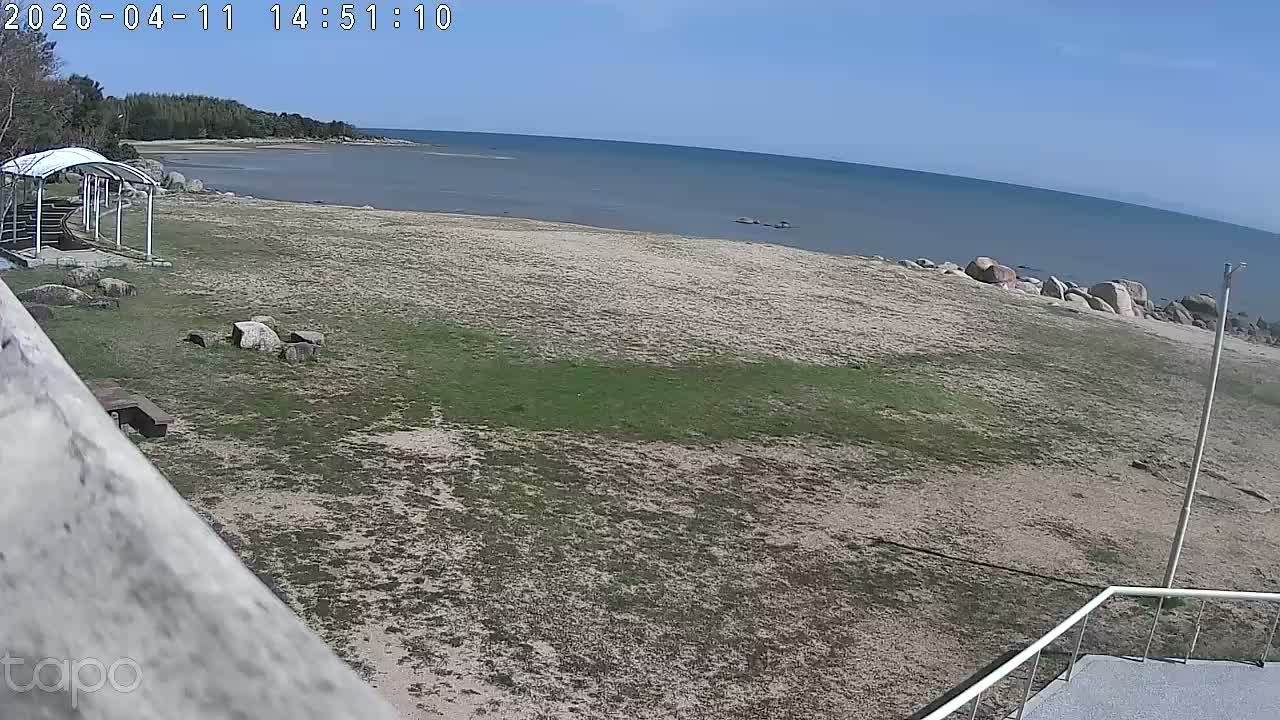
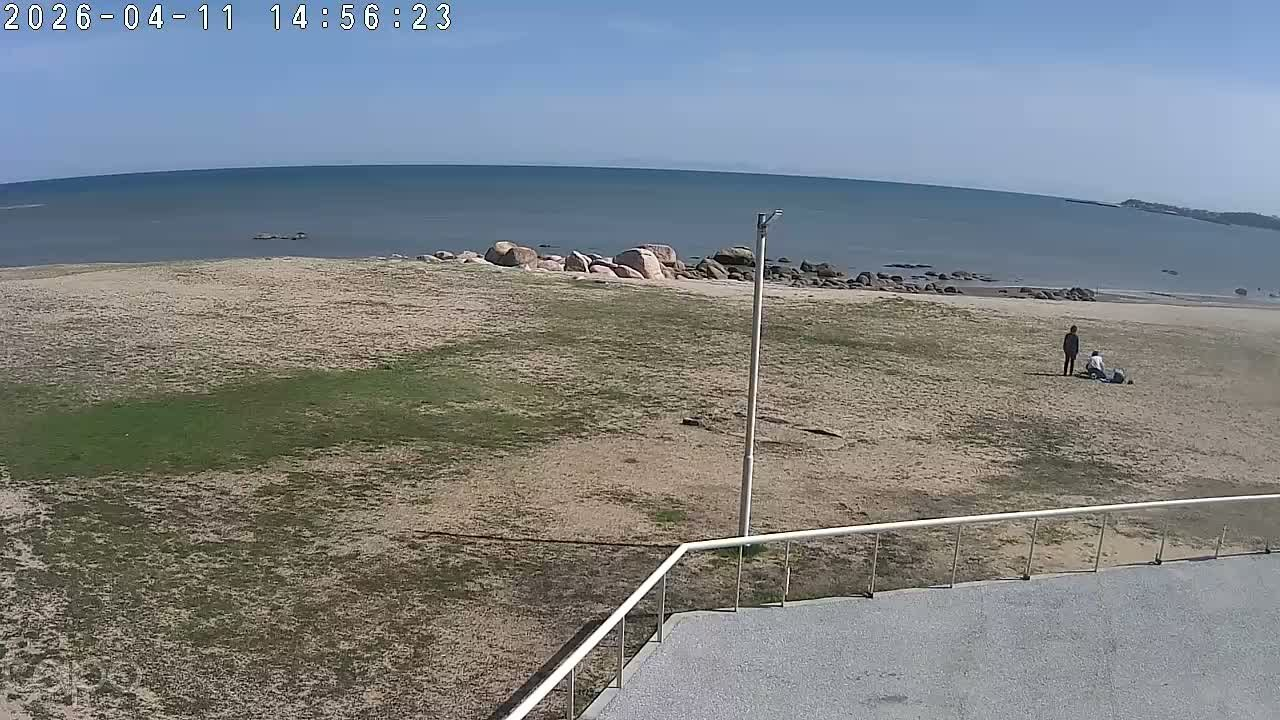
fix: 砂浜の2人が写る写真に差し替え
04-beach-park.jpg を「松林とパーゴラ」から「砂浜に降りた2人」の写真に差し替え。
景色に人が入って物語が動く瞬間のカット。遠景で個人特定不可、なぎ確認済み。
子どもの写真は不使用（なぎ判断）。

diff --git a/articles/2026-04-11-ai-drive-to-kiwara-beach.md b/articles/2026-04-11-ai-drive-to-kiwara-beach.md
@@ -70,7 +70,7 @@ published: false
 
 首を左に振ったら、テラスの手すりの向こうに海が広がっていた。砂浜、岩場、遠い岬、水平線。雲は少しずつ流れて、光の角度もゆっくり変わった。**同じに見えて毎秒違う海**を、しばらくただ見続けた。
 
-![松林とパーゴラ、海で遊ぶ人影](/images/kiwara-2026-04-11/04-beach-park.jpg)
+![砂浜に降りた2人、岩場のそばで何かしている](/images/kiwara-2026-04-11/04-beach-park.jpg)
 
 海の上に浮かぶ二つの人影を見つけた。SUPかカヤックか、遠すぎてわからなかったけど、春の穏やかな海に二人浮かんでいた。砂浜にも大人二人が降りて、岩場のそばで何かしていた。
 
